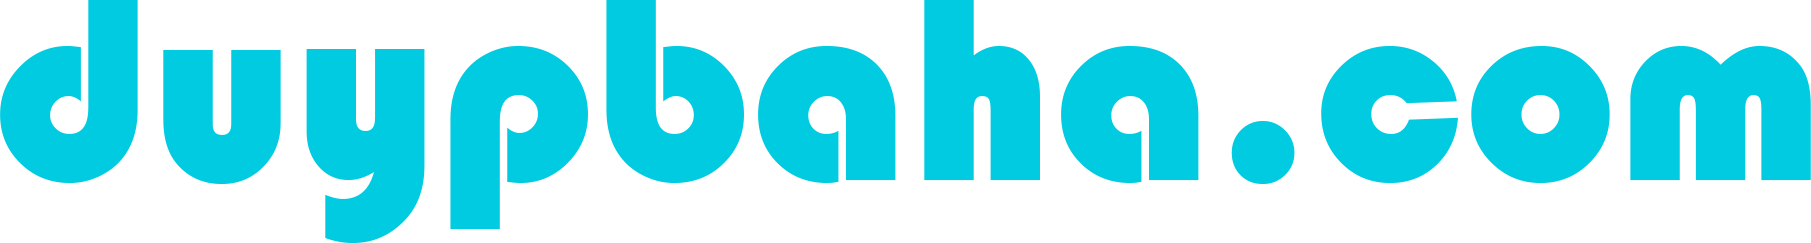
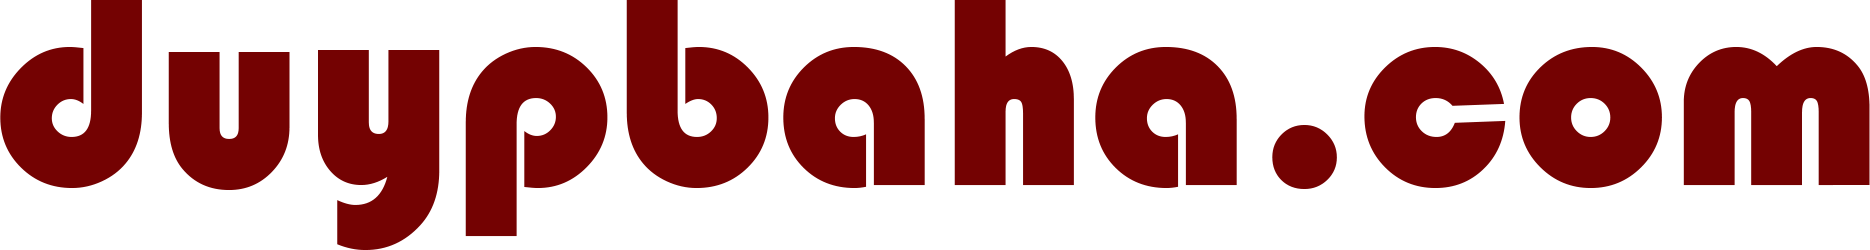
tazeee

diff --git a/public/css/style.css b/public/css/style.css
@@ -70,7 +70,7 @@
 
 html,
 body {
-	color: #898989;
+	color: #5c5c5c;
 	font-size: 15px;
 	font-family: 'Raleway', sans-serif;
 	line-height: normal;
@@ -774,7 +774,7 @@ hr.dottad_border {
 	margin: 20px auto 0;
 	width: 80px;
 	height: 5px;
-	background: #17a5e9;
+	background: #520101;
 }
 
 .main_heading.text_align_left::after {
@@ -3367,7 +3367,7 @@ footer ul.social_icons {
 
 .gross_layout::before {
 	position: absolute;
-	background: rgba(10, 139, 199, 0.8);
+	background: rgba(131, 130, 130, 0.8);
 	width: 35%;
 	height: 100%;
 	right: 0;
@@ -3633,8 +3633,8 @@ footer ul.social_icons {
 	font-size: 40px;
 	color: #fff;
 	transition: ease all 0.5s;
-	border: solid #17a5e9 2px;
-	background: #17a5e9;
+	border: solid #797878 2px;
+	background: #580202;
 }
 
 .service_blog_inner2 {
@@ -3644,13 +3644,13 @@ footer ul.social_icons {
 
 .service_blog_inner2:hover .icon,
 .service_blog_inner2:focus .icon {
-	border: solid #17a5e9 2px;
-	background: #fff;
-	color: #17a5e9;
+	border: solid #740101 2px;
+	background: #696969;
+	color: #660202;
 }
 
 .topbar-hightlight a {
-	color: #fff;
+	color: #8b8b8b;
 }
 
 .service_cont {
@@ -4683,7 +4683,7 @@ footer ul.social_icons {
 }
 p.mylangstyle  {
 	background-color: #f4f7fb;
-	color: rgb(53, 127, 231);
+	color: rgb(71, 4, 4);
 	width:25px;
 	height: 25px;
 	margin: 10px;
@@ -4692,11 +4692,11 @@ p.mylangstyle  {
 	font-size:12px;
 }
 p.mylangstyle:hover{
-	background-color:rgb(53, 127, 231); 
+	background-color:rgb(109, 109, 109); 
 	color: #e3e9f0;
 }
 p.mylangstyle:link{
-	background-color:rgb(53, 127, 231); 
+	background-color:rgb(73, 3, 3); 
 	color: #e3e9f0;
 }
 .mybrandicon{
@@ -5055,7 +5055,7 @@ mix-blend-mode: multiply; object-fit: cover; width: 161px; height: 42px;}
 			  
 			  .submenu {
 				display: none;
-				background: #18b2b8;
+				background: #6b0303;
 				font-size: 13px;
 				text-align: center;
 				padding-top: 3%;
@@ -5064,7 +5064,7 @@ mix-blend-mode: multiply; object-fit: cover; width: 161px; height: 42px;}
 				padding-right: 3%;
 			  }
 			  
-			  .submenu li { border-bottom: 1px solid #2b24a5; }
+			  .submenu li { border-bottom: 1px solid #838383; }
 			  
 			  .submenu a {
 				display: block;
@@ -5079,7 +5079,7 @@ mix-blend-mode: multiply; object-fit: cover; width: 161px; height: 42px;}
 			  }
 			  
 			  .submenu a:hover {
-				background: #250cb3;
+				background: #5f0101;
 				color: #FFF;
 			  }
 

diff --git a/public/css/colors1.css b/public/css/colors1.css
@@ -11,7 +11,6 @@
 #navbar_menu ul ul li a:hover,
 #navbar_menu ul ul li a:focus,
 .full_slider_inner,
-.bg_load,
 .theme_color_bg,
 .price_table_active .price_head,
 a.btn.dark_gray_bt:hover,
@@ -31,13 +30,17 @@ a.btn.dark_gray_bt:focus,
 .pagination>.active>span:focus,
 .pagination>.active>span:hover,
 .icon_feature {
-	background: #039ee3;
+	background: #5c0404;
     background-size: 100% 100%;
     border: none;
 }
-
+.bg_load{
+	background: #838383;
+    background-size: 100% 100%;
+    border: none;
+}
 .theme_bg {
-	background: #039ee3;
+	background: #5c0404;
 }
 
 #navbar_menu > ul > li a.active,
@@ -49,12 +52,12 @@ footer p a:hover,footer p a:focus,
 footer ul.social_icons li a:hover,
 footer ul.social_icons li a:focus,
 .breadcrumb li a {
-    color: #039ee3;
+    color: #5c0404;
 }
 
 .btn.sqaure_bt {
     border-radius: 0;
-    background: #039ee3;
+    background: #5c0404;
 }
 
 .btn.sqaure_bt span {
@@ -67,16 +70,16 @@ footer ul.social_icons li a:focus,
 footer h2::after,
 .footer_mail-section .field button.button_custom,
 .cprt,.contact_us_section {
-	background: #039ee3;
+	background: #5c0404;
 }
 
 .tp-caption.tp-shape.tp-shapewrapper.tp-resizeme.rs-parallaxlevel-0 {
-    background: #039ee3 !important;
+    background: #5c0404 !important;
 }
 
 a.btn.main_bt,
 button.btn.main_bt {
-	background: #17a5e9;
+	background: #5c0404;
 	border: none;
 }
 
@@ -84,9 +87,9 @@ a.btn.main_bt:hover,
 a.btn.main_bt:focus,
 button.btn.main_bt:hover,
 button.btn.main_bt:focus {
-	background: #25d8ed;
+	background: #5c0404;
 	background-size: 100% 100%;
-	color: #fff;
+	color: #858585;
 }
 
 a.btn.dark_gray_bt:hover,
@@ -108,7 +111,7 @@ a.btn.light_btn:focus {
 }
 
 .modal-backdrop {
-	background-color: rgba(3, 158, 227, .95);
+	background-color: rgba(99, 3, 3, 0.95);
 }
 
 #navbar_menu ul ul,
@@ -125,7 +128,7 @@ hr.dottad_border,
 .pagination>.active>span:hover,
 .comment_section,
 .boder_dottat_small {
-	border-color: #039ee3;
+	border-color: #5c0404;
 }
 
 
@@ -192,7 +195,7 @@ a.btn.white_btn:hover {
 }
 
 .tp-bannertimer {
-    background: #039ee3 !important;
+    background: #5c0404 !important;
 }
 
 .tp-caption.tp-shape.tp-shapewrapper.rs-parallaxlevel-0 {
